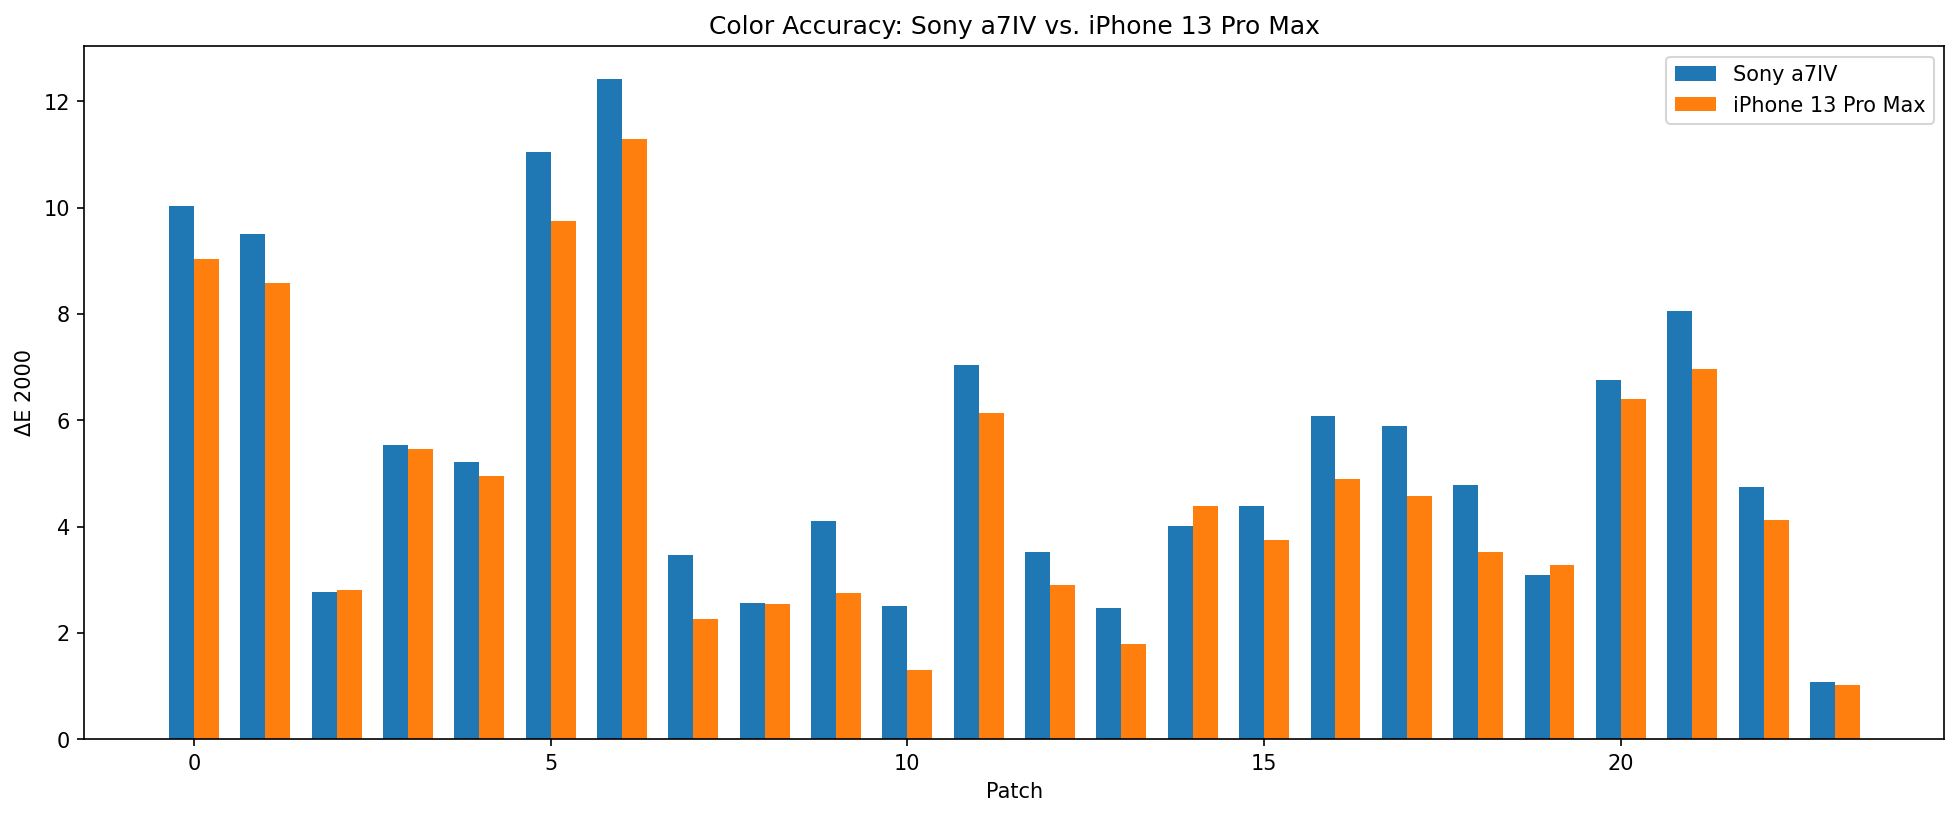
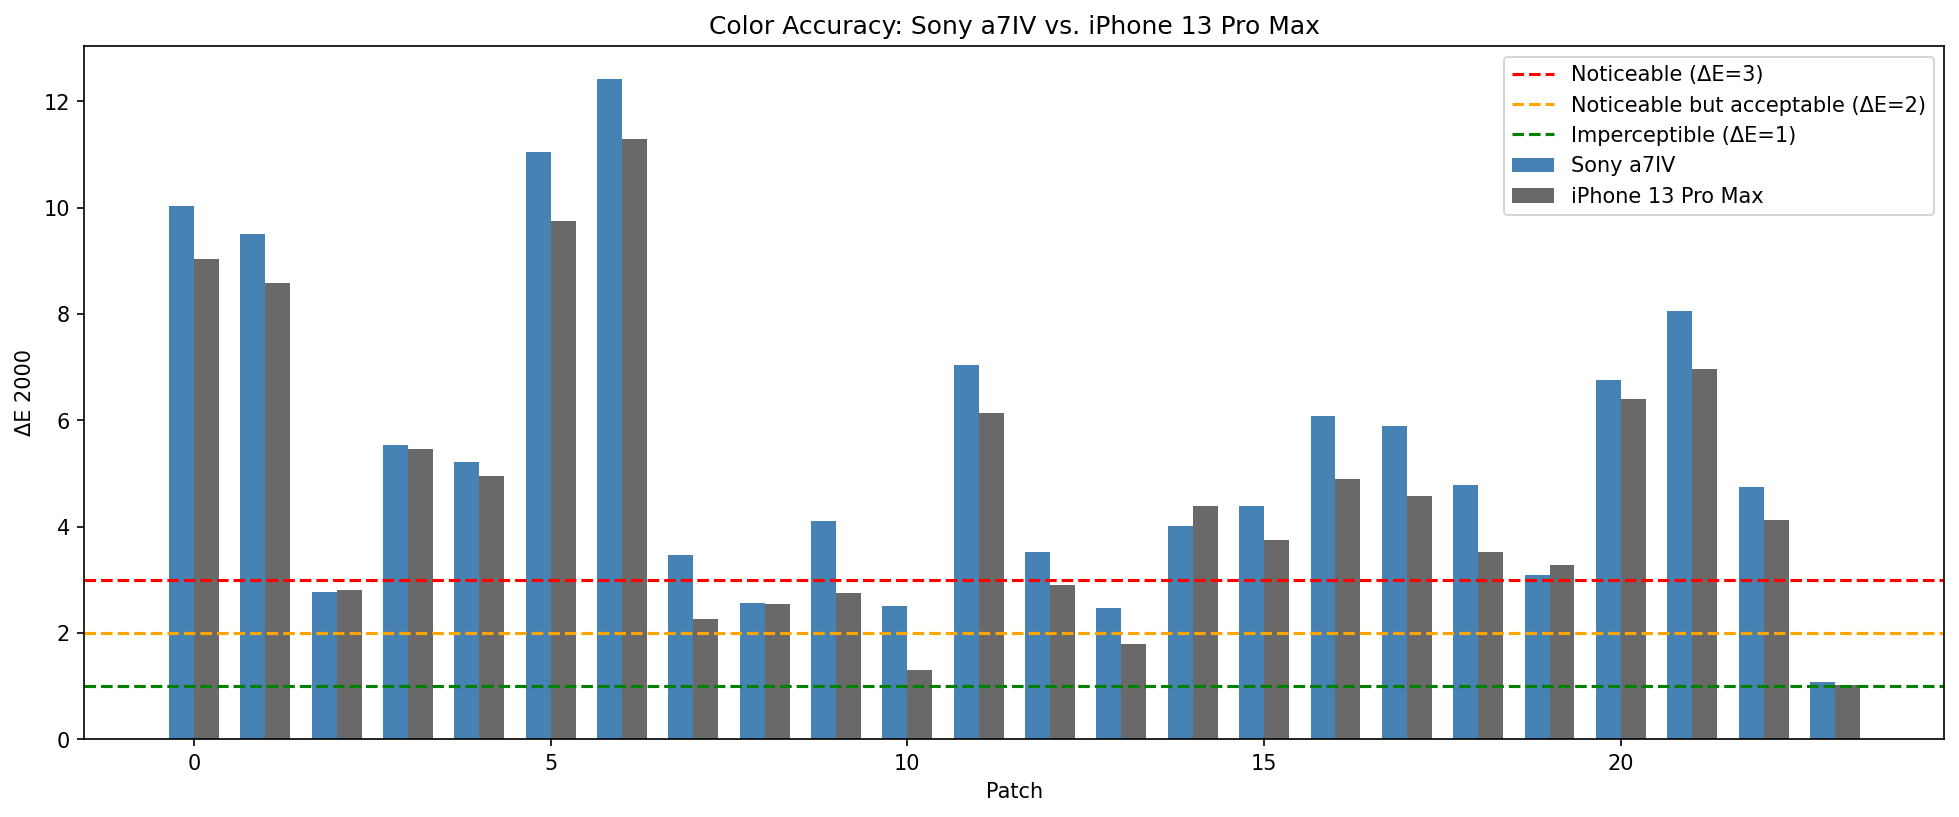
change color of bars in graph

Changed region(s): [[0.0623, 0.0918, 0.9653, 0.918], [0.7473, 0.0612, 0.9964, 0.2754]]

diff --git a/main.py b/main.py
@@ -230,8 +230,8 @@ def compare_cameras(iphone_delta_e, sony_delta_e):
     x = np.arange(24)
     width = .35
 
-    ax.bar(x - width/2, sony_delta_e, width, label='Sony a7IV')
-    ax.bar(x + width/2, iphone_delta_e, width, label='iPhone 13 Pro Max')
+    ax.bar(x - width/2, sony_delta_e, width, color = 'steelblue', label='Sony a7IV')
+    ax.bar(x + width/2, iphone_delta_e, width,  color = 'dimgray', label='iPhone 13 Pro Max')
     ax.axhline(y = 3, color = 'r', linestyle = '--', label = 'Noticeable (ΔE=3)')
     ax.axhline(y = 2, color = 'orange', linestyle = '--', label = 'Noticeable but acceptable (ΔE=2)')
     ax.axhline(y = 1, color = 'g', linestyle = '--', label = 'Imperceptible (ΔE=1)')
